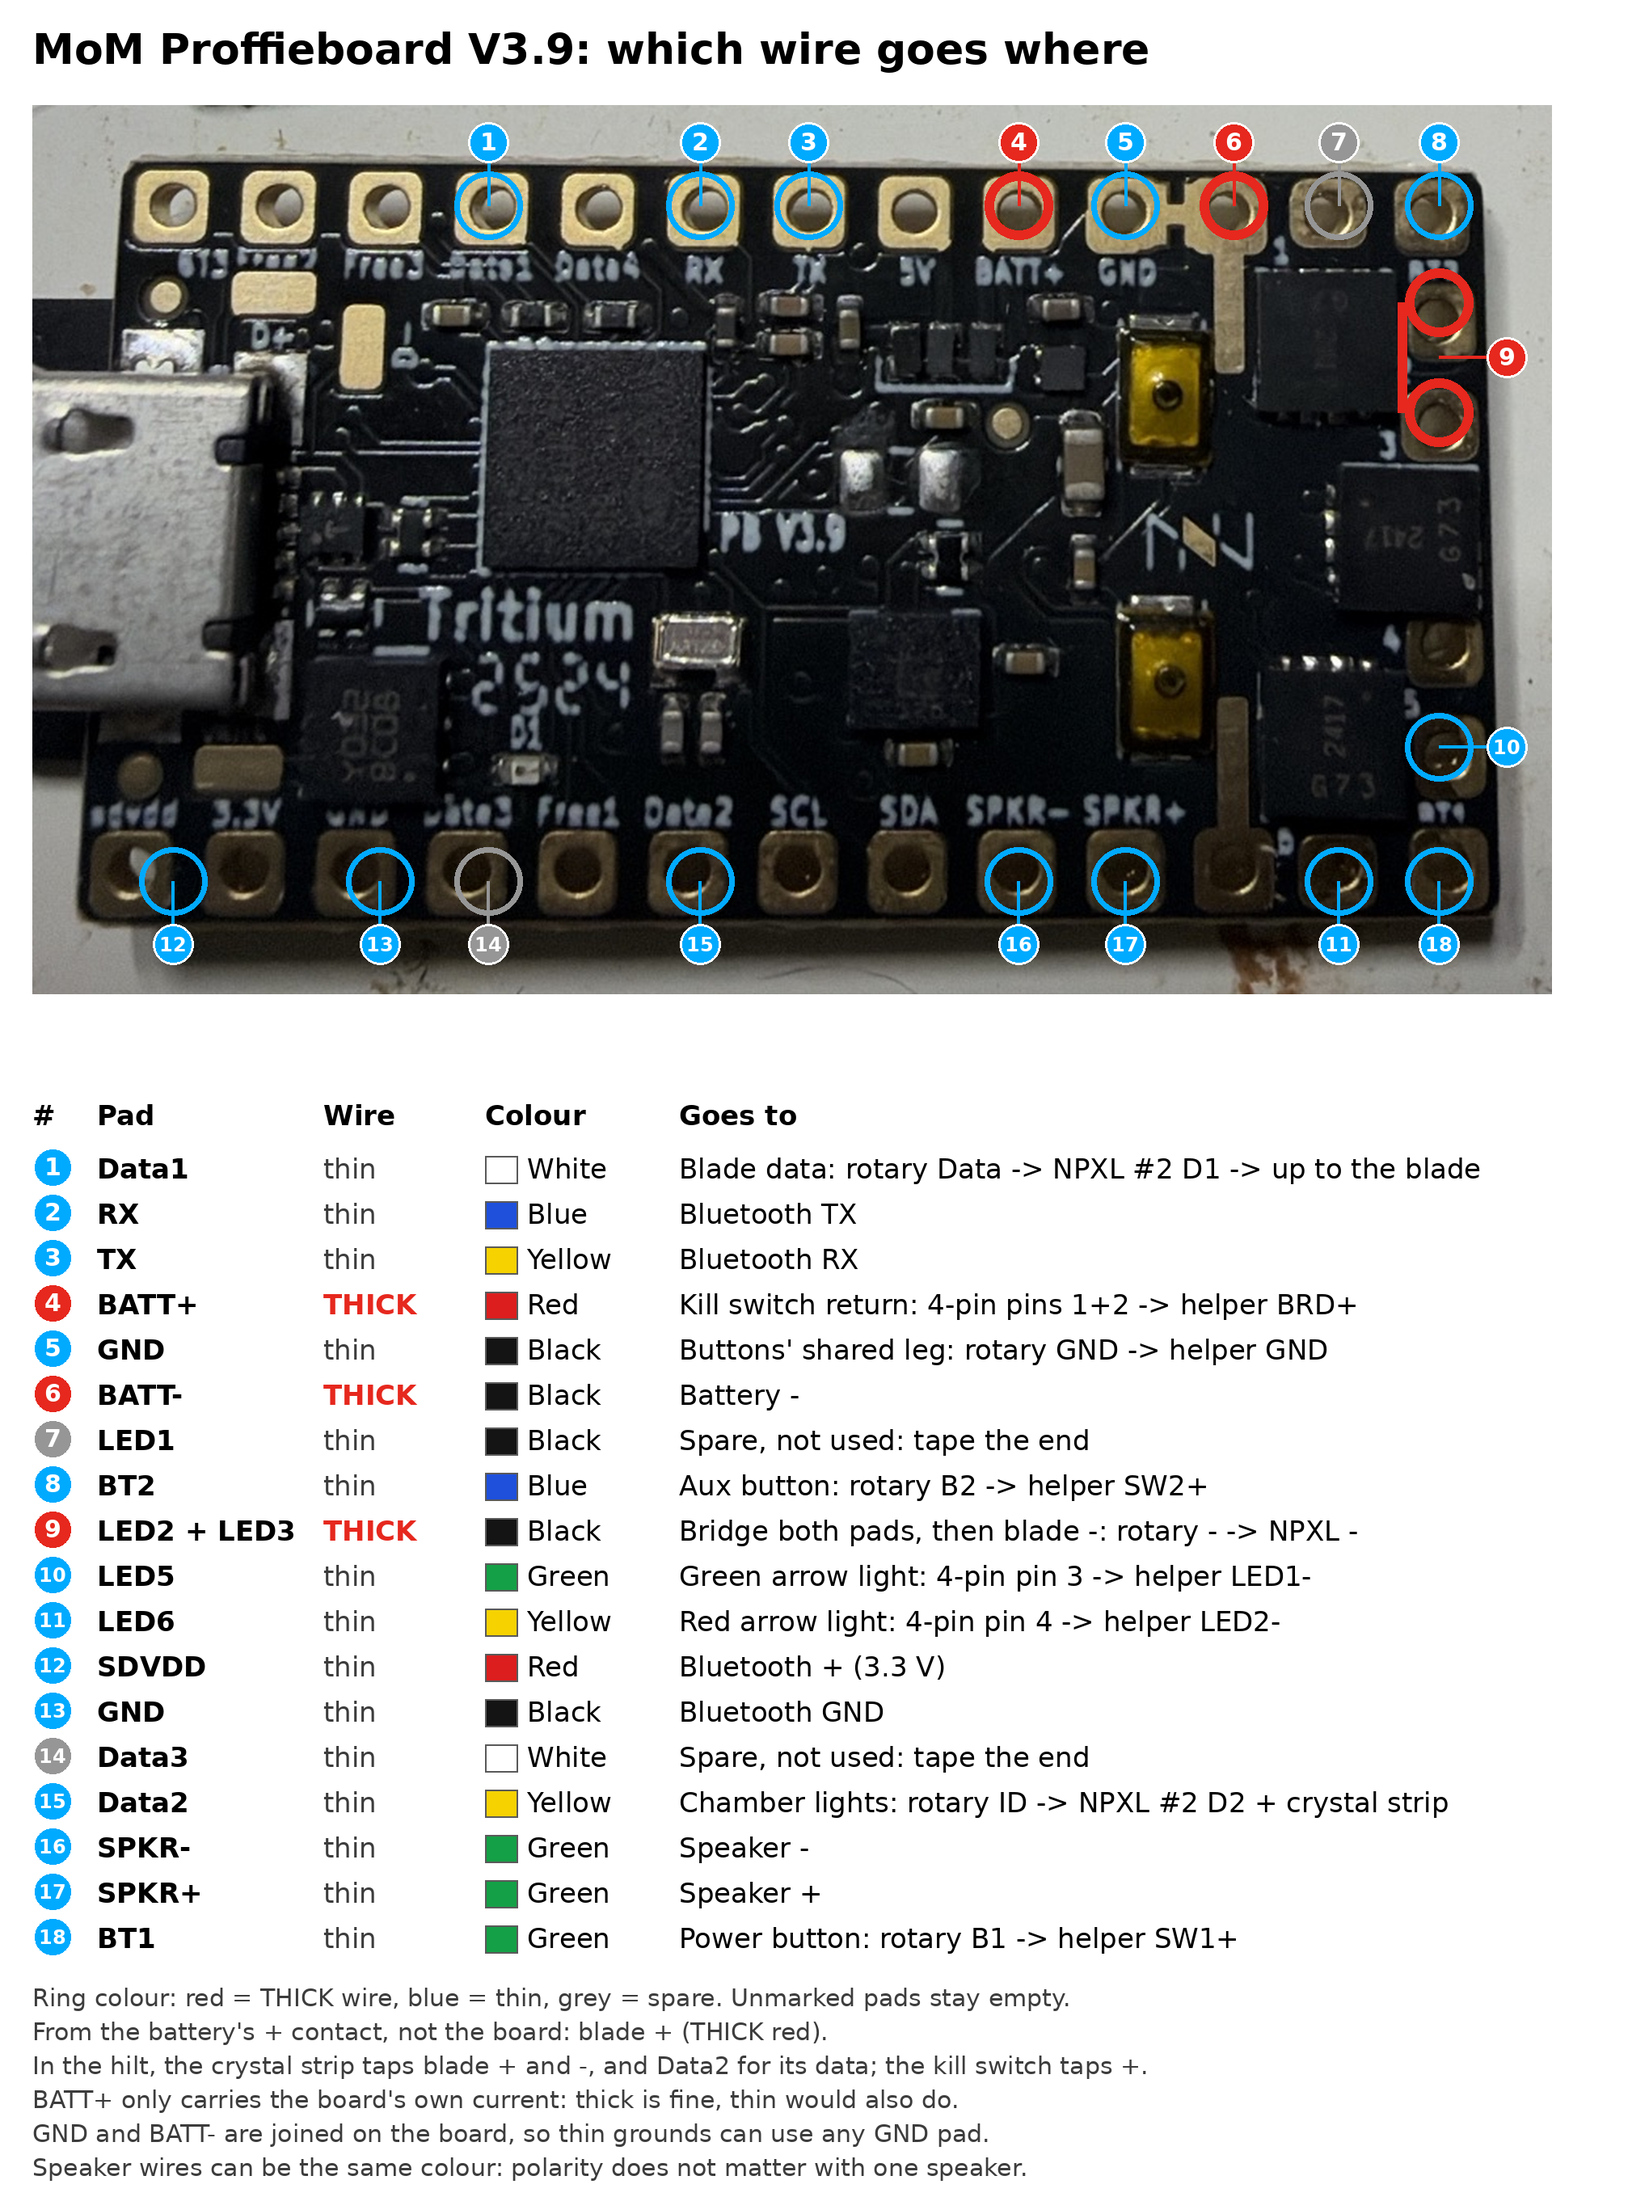
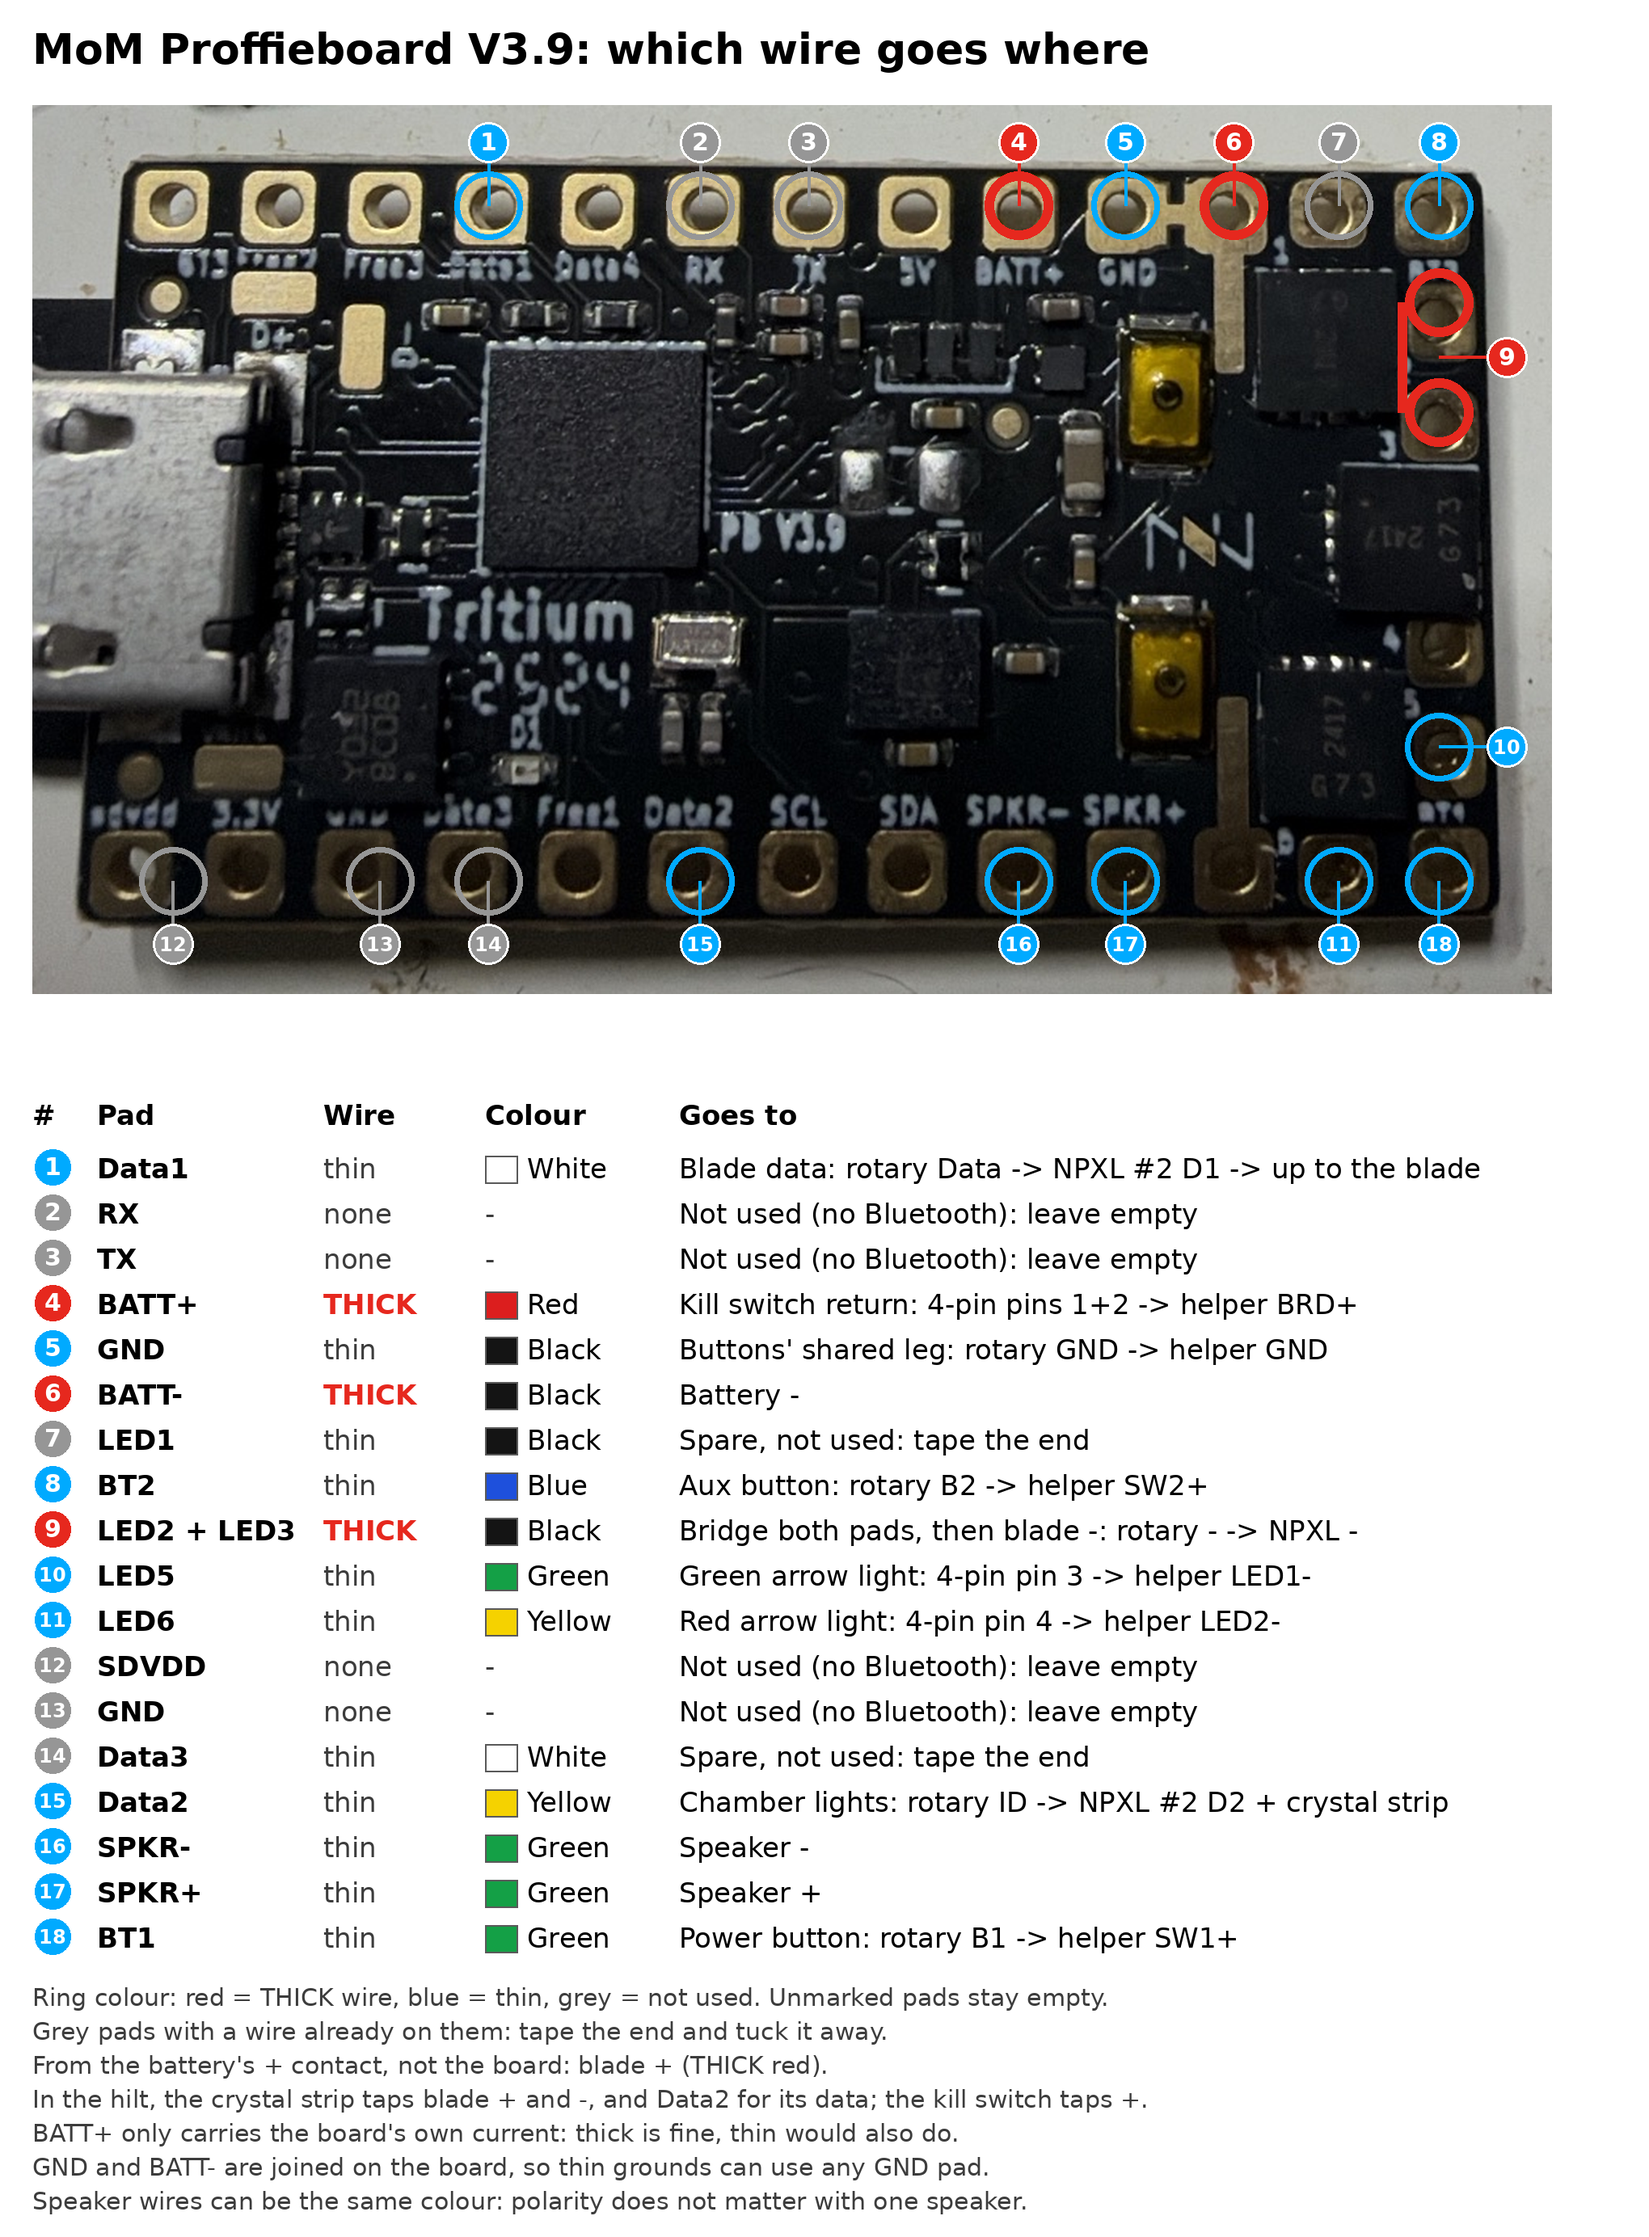
MoM: drop the Bluetooth module, which didn't fit in the hilt
Grey out RX, TX, SDVDD and the second GND on the Proffie pad chart,
mark the BT909 as not fitted in the README, and leave ENABLE_SERIAL
off in the config (still compiles against ProffieOS 8.10).

Claude-Session: https://claude.ai/code/session_01265pwD5zDbVVSh7CxSi4nL

Changed region(s): [[0.0, 0.0309, 0.9574, 0.4636], [0.0, 0.4945, 0.8956, 0.989]]

diff --git a/saber-wiring/proffieos/mom_config.h b/saber-wiring/proffieos/mom_config.h
@@ -2,7 +2,8 @@
 //
 // Started from Fredrik Hubbe's Proffieboard V3 configurator output
 // (Illuminated PCB blade, 2 buttons, FSC-BT909), then extended with the
-// control box's two lights. Wiring is in ../README.md,
+// control box's two lights. The Bluetooth module didn't fit in the hilt, so
+// its serial port is left off. Wiring is in ../README.md,
 // ../out/mom/proffie-pads.png and ../out/mom/hilt-wiring.png.
 //
 // Data1 runs through the joint at the top of the crystal chamber (NPXL #2's
@@ -45,8 +46,6 @@ const unsigned int maxLedsPerStrip = RING_LEDS + 130;
 // The blade, both connector rings and the crystal strip share the LED2/LED3
 // power pins.
 #define SHARED_POWER_PINS
-// FSC-BT909 Bluetooth on the RX/TX pads.
-#define ENABLE_SERIAL
 // Remember the last preset, volume and colour change.
 #define SAVE_STATE
 #endif

diff --git a/saber-wiring/README.md b/saber-wiring/README.md
@@ -12,7 +12,7 @@ The configurator doesn't know about the Shtok rotary connector or the MoM helper
 | BRrogers crystal chamber | Lit by the 10-LED WS2812 mini strip |
 | MoM FX helper board (Veracity calls it v4.1) | Sits in the control box behind the green reveal board. Carries the two buttons (side-push switches pressed by the box buttons) and two plain LEDs. See "MoM FX helper board" below |
 | Proffieboard V3.9 + SD card | Sound board. Yours is made by Tritium Sabers and printed "PB V3.9"; Hubbe's [V3 page](https://fredrik.hubbe.net/lightsaber/v6/) lists Tritium as a V3.9 maker. The diagram photo is a V3.7, and the configurator covers the whole V3 family (`proffieboard_v3_config.h`) |
-| FSC-BT909 Bluetooth module (KR Sabers carrier board) | Bluetooth: 4 thin wires to SDVDD, GND, TX and RX. See "Bluetooth board" below |
+| FSC-BT909 Bluetooth module (KR Sabers carrier board) | **Not fitted in the MoM:** there's no room for it in the hilt. RX, TX, SDVDD and the second GND pad stay empty. "Bluetooth board" below is kept for reference |
 | 28 mm 4 Ω 3 W bass speaker | SPKR+ / SPKR− |
 | 18650 3120 mAh protected cell (1 of the 2) | Battery. Protected cells are a few mm longer than unprotected ones, so check it fits between the spring contacts |
 | Spring battery contacts | Hold the battery; it comes out to charge |
@@ -34,7 +34,7 @@ The Saber Armory order covers both sabers.
 | Ordered | MoM | Obi-Wan | Shared or spare |
 | --- | --- | --- | --- |
 | Proffieboard v3.9 ×2 | 1 | 1 | |
-| FSC-BT909 Bluetooth PCB Unit ×2 | 1 | 1 | |
+| FSC-BT909 Bluetooth PCB Unit ×2 | None: no room in the hilt | 1 | 1 spare |
 | 28 mm 4 Ω 3 W speaker ×2 | 1 | 1 | |
 | Rotary NeoPixel & 2 Button connector set ×2 | 1: chassis to crystal chamber | | 1 spare |
 | Keeppower 18650 3120 mAh dual pack | 1 cell | | 1 spare cell |
@@ -69,7 +69,7 @@ Not from this order:
 
 Layout, from the designer's photos, starting at the pommel: pommel → body with the control box (the removable core with board, battery and speaker goes in here) → crystal chamber → black grip → copper section → emitter with the NPXL connector. The crystal chamber is in the grenade section. The blade goes in past the thin neck to a brass cup about 1" across. The Shtok 1" holder is the same size and replaces that cup; it holds the NPXL, pins up, where the blade's end lands. (On its own, the 17.5 mm NPXL rattles around in the brass cup.) The blade wires (+, −, Data1, Data2) run up from the rotary connector past the crystal chamber to the NPXL. The NPXL's 16 LEDs light the blade plug at that end. The crystal is lit by the mini strip.
 
-The chassis comes all the way out, so every wire from the Proffieboard ends at the chassis end: on the rotary ring board, the 4-pin connector, the battery contacts, the speaker or the Bluetooth board. The rotary connector is the pass-through that carries the blade's wires on into the hilt.
+The chassis comes all the way out, so every wire from the Proffieboard ends at the chassis end: on the rotary ring board, the 4-pin connector, the battery contacts or the speaker. The rotary connector is the pass-through that carries the blade's wires on into the hilt.
 
 ## Configurator settings
 
@@ -80,7 +80,7 @@ The chassis comes all the way out, so every wire from the Proffieboard ends at t
 | Display | None |
 | Charge Port | **off** |
 | Blade 2 | None |
-| Bluetooth | FSC-BT909 |
+| Bluetooth | FSC-BT909 (the module was later left out for lack of room, so ignore the Bluetooth wires on the configurator diagram) |
 | Kill switch | off |
 | Blade 3 | Neopixel crystal chamber, 10 LEDs |
 | IR receiver, Reverse orientation | off |
@@ -103,16 +103,13 @@ Use **thick** wire only where the blade's current flows: the battery in and out,
 | **BATT−** | **Thick** | Battery − | Every LED's current comes back through here |
 | **LED2 + LED3** | **Thick** | Blade −: rotary **−** → NPXL **−** | The two pads are next to each other. Strip enough wire to lay across both and solder them together |
 | **GND** | Thin | Shared leg of both buttons: rotary **GND** → helper **GND** | GND and BATT− are joined on the board, so any GND or BATT− pad works |
-| **GND** | Thin | BT909 **GND** | |
 | **Data1** | Thin | Rotary **Data** → NPXL **D1** (blade) | Data1 has a 470 Ω resistor built in, so no extra resistor |
 | **Data2** | Thin | Rotary **ID** → NPXL **D2** (connector's 16 LEDs) | The NPXL has its own 330 Ω (R2) on D2 |
 | **Data3** | None | Spare, not used | If you already soldered a wire here, tape its end. The crystal strip takes its data from Data2 in the crystal chamber |
 | **LED1** | None | Spare, not used | If you already soldered a wire here, tape its end and tuck it away. The crystal's − now comes from the blade − line in the hilt |
 | **BT1** | Thin | Rotary **B1** → helper **SW1+** (power) | |
 | **BT2** | Thin | Rotary **B2** → helper **SW2+** (aux) | |
-| **RX** | Thin | BT909 **TX** | TX and RX cross over |
-| **TX** | Thin | BT909 **RX** | |
-| **SDVDD** | Thin | BT909 **+ / VCC** | Switched 3.3 V |
+| **RX**, **TX**, **SDVDD**, second **GND** | None | Not used: no Bluetooth in the MoM | If you already soldered wires here, tape their ends |
 | **SPKR+ / SPKR−** | Thin | Speaker | Under 1 A even at full volume (3 W into 4 Ω) |
 | **LED5 / LED6** | Thin | 4-pin connector **pin 3 / pin 4** → helper **LED1− / LED2−** | The control box's two arrow lights. The designer's pinout calls them LEDx and LEDy |
 
@@ -131,7 +128,6 @@ Colour plan for black, red, white, green, yellow and blue. Each group of wires t
 | Rotary connector (chassis side) | blade + **red thick** (from the battery + contact), LED2+LED3 **black thick**, GND (pad 5) black thin, Data1 white, Data2 yellow, BT1 green, BT2 blue |
 | 4-pin connector (chassis end) | BATT+ red thick (pins 1 and 2), LED5 green (pin 3), LED6 yellow (pin 4) |
 | Battery contacts | + : blade + **red thick**. − : BATT− **black thick** |
-| Bluetooth board | SDVDD red, GND black, TX yellow, RX blue |
 | Speaker | SPKR+ and SPKR− both green. Polarity doesn't matter with one speaker |
 
 Tips for long wires you'll trim later:
@@ -145,6 +141,8 @@ Tips for long wires you'll trim later:
 On the crystal strip, use the end whose arrows point away from the wire (DIN), and connect the strip's 5V/+, DIN and GND/− pads.
 
 ## Bluetooth board (KR Sabers BT909 module PCB)
+
+Not fitted in the MoM: there was no room for it in the hilt. This section is kept for reference, for example for the Obi-Wan.
 
 The BT909 is mounted on a KR Sabers carrier board, sold by The Saber Armory as the [FSC-BT909 Bluetooth PCB Unit](https://thesaberarmory.com/products/shtokcustomworx-fsc-bt909-bluetooth-pcb-unit). The pads are labeled on the back. The listing's [wiring image](https://cdn.shopify.com/s/files/1/0262/5368/8868/products/SCW-BT909-3.jpg) marks RX "to TX" and TX "to RX", so the data wires cross over, the same as the configurator draws.
 
@@ -321,7 +319,7 @@ Each wire has the same colour as the chassis-side wire behind its contact, so a 
 
 ## ProffieOS config to flash: `proffieos/mom_config.h`
 
-[`proffieos/mom_config.h`](proffieos/mom_config.h) is the config to flash. It starts from the configurator's output (`out/mom/config.h`) and adds the control box's two lights, Bluetooth and save-state. It compiles cleanly against **ProffieOS 8.10** for Proffieboard V3: the firmware uses about 190 KB of 512 KB of flash and about 31 KB of RAM.
+[`proffieos/mom_config.h`](proffieos/mom_config.h) is the config to flash. It starts from the configurator's output (`out/mom/config.h`) and adds the control box's two lights and save-state. With no Bluetooth module, its serial port (`ENABLE_SERIAL`) is left off. It compiles cleanly against **ProffieOS 8.10** for Proffieboard V3: the firmware uses about 185 KB of 512 KB of flash and about 31 KB of RAM.
 
 | Blade (in preset order) | Hardware | Pins |
 | --- | --- | --- |
@@ -353,14 +351,13 @@ Before flashing:
 4. **Bench test on USB:**
    - Connect the speaker: you should hear the boot sound.
    - Briefly touch the BT1 (green) wire to a GND (black) wire. That's a power-button press, so you should hear ignition.
-   - Connect the Bluetooth board and look for it on your phone.
 5. **Bench test on the battery:**
    - Board power comes back through the kill switch in the hilt, so until the hilt is wired, temporarily connect the red BATT+ wire (pad 4) to the battery's + contact. That stands in for the switch.
    - Test the real NPXL and blade. Remove R1 from the NPXL first. Then clip or tack the NPXL's **+** to the battery's +, **−** to pad 9's thick black wire, **D1** to Data1 (white) and **D2** to Data2 (yellow), and plug the blade in.
    - No NPXL handy? Use 6–8 leftover mini-strip LEDs as a test blade: + to battery +, − to pad 9's thick wire, DIN to Data1.
    - Always connect the battery the right way round. Neopixels can fry if it's reversed.
 6. **Then the connectors and far ends:**
-   - Chassis side: the rotary ring board, the 4-pin connector, the battery contacts, the speaker and the Bluetooth board.
+   - Chassis side: the rotary ring board, the 4-pin connector, the battery contacts and the speaker.
    - Hilt side: follow [Hilt side: step by step](#hilt-side-step-by-step). It covers R1, the helper board, the crystal and the kill switch.
 
 ### Flashing
